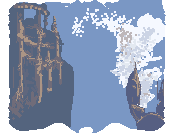
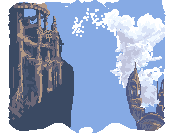
card changes

diff --git a/packages/engine/src/card/sets/core/order/heroes/harold-lv2.ts b/packages/engine/src/card/sets/core/order/heroes/harold-lv2.ts
@@ -43,9 +43,8 @@ export const haroldLv2: HeroBlueprint = {
         width: 174,
         height: 133
       },
-      bg: 'placeholder-bg',
-      main: 'placeholder',
-      breakout: 'placeholder-breakout',
+      bg: 'heroes/harold-lv2-bg',
+      main: 'heroes/harold-lv2',
       frame: 'default',
       tint: FACTIONS.ORDER.defaultCardTint
     }
@@ -61,7 +60,7 @@ export const haroldLv2: HeroBlueprint = {
     {
       id: 'harold-vowed-crusader-ability-1',
       description:
-        'Grant a minion @Honor@ this turn. If it dies this turn, wake up this card and give it +1 Atk this turn.',
+        'Grant a minion @Honor@ "@On Death@: Wake up your hero and give it +1 Atk" until the end of the turn.',
       label: 'Grant Honor',
       canUse: singleMinionTargetRules.canPlay,
       getPreResponseTargets(game, card) {

diff --git a/packages/engine/src/card/sets/core/arcane/minions/simurgh.ts b/packages/engine/src/card/sets/core/arcane/minions/simurgh.ts
@@ -1,7 +1,4 @@
 import dedent from 'dedent';
-import { AuraModifierMixin } from '../../../../../modifier/mixins/aura.mixin';
-import { Modifier } from '../../../../../modifier/modifier.entity';
-import { SimpleSpellpowerBuffModifier } from '../../../../../modifier/modifiers/simple-spellpower.buff.modifier';
 import type { MinionBlueprint } from '../../../../card-blueprint';
 import {
   CARD_DECK_SOURCES,
@@ -9,8 +6,7 @@ import {
   CARD_SETS,
   CARD_SPEED,
   FACTIONS,
-  RARITIES,
-  CARD_LOCATIONS
+  RARITIES
 } from '../../../../card.enums';
 import { OnAttackModifier } from '../../../../../modifier/modifiers/on-attack.modifier';
 import { splittingBeam } from '../spells/splitting-beam';

diff --git a/packages/engine/src/card/sets/core/order/heroes/harold-lv3.ts b/packages/engine/src/card/sets/core/order/heroes/harold-lv3.ts
@@ -28,7 +28,7 @@ export const haroldLv3: HeroBlueprint = {
   deckSource: CARD_DECK_SOURCES.DESTINY_DECK,
   name: 'Harold, Ascended Seraph',
   description:
-    'When an allied minion with Honor Dies, draw a card and give this and all allies +1 Atk this turn.',
+    'Your minion with @Honor@ have @Burst Attack@ and "@On Death@: draw a card give your Hero +1 Atk this turn".',
   faction: FACTIONS.ORDER,
   rarity: RARITIES.LEGENDARY,
   tags: [],

diff --git a/packages/engine/src/card/card-keywords.ts b/packages/engine/src/card/card-keywords.ts
@@ -332,6 +332,13 @@ export const KEYWORDS = {
     name: 'Honor',
     description: 'This unit cannot be blocked or defended.',
     aliases: []
+  },
+  BURST_ATTACK: {
+    id: 'burst-attack',
+    name: 'Burst Attack',
+    description:
+      'This unit can attack at burst speed (it does not create a stack, cannot be blocked or retaliated and resolves instantly).',
+    aliases: []
   }
 };
 

diff --git a/packages/engine/src/card/sets/core/arcane/heroes/spirit-of-arcane.ts b/packages/engine/src/card/sets/core/arcane/heroes/spirit-of-arcane.ts
@@ -53,7 +53,7 @@ export const spiritOfArcane: HeroBlueprint = {
     await card.modifiers.add(
       new OnEnterModifier(game, card, {
         async handler() {
-          await card.player.cardManager.draw(7);
+          await card.player.cardManager.draw(6);
         }
       })
     );

diff --git a/packages/engine/src/card/sets/core/order/heroes/spirit-of-order.ts b/packages/engine/src/card/sets/core/order/heroes/spirit-of-order.ts
@@ -53,7 +53,7 @@ export const spiritOfOrder: HeroBlueprint = {
     await card.modifiers.add(
       new OnEnterModifier(game, card, {
         async handler() {
-          await card.player.cardManager.draw(7);
+          await card.player.cardManager.draw(6);
         }
       })
     );
